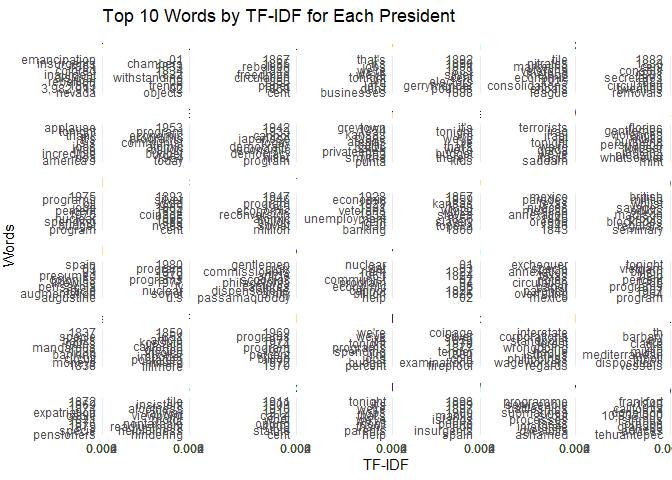
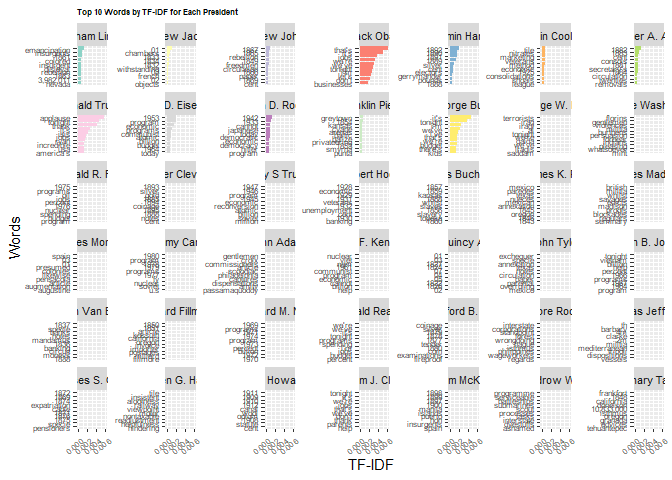
Complete Homework 7

diff --git a/hw07/hw07.md b/hw07/hw07.md
@@ -11,6 +11,7 @@ library(tidyverse)
 library(ggwordcloud)
 library(sotu)
 library(textstem)
+library(dplyr)
 ```
 
 ``` r
@@ -89,26 +90,13 @@ obama_n <- sotu %>%
   filter(president == "Barack Obama") %>%
   unnest_tokens(word, speech, to_lower = FALSE, strip_punct = FALSE) %>%
   count(word, sort = TRUE)
-
-head(obama_n)
 ```
-
-    ## # A tibble: 6 × 2
-    ##   word      n
-    ##   <chr> <int>
-    ## 1 .      2978
-    ## 2 ,      2866
-    ## 3 the    2282
-    ## 4 to     1815
-    ## 5 and    1473
-    ## 6 of     1311
 
 ``` r
 obama_n_cleaned <- obama_n %>%
   anti_join(stop_words, by = "word") %>%
   filter(n >= 10, nchar(word) >= 2) %>%
   slice_max(n, n = 200)
-
 head(obama_n)
 ```
 
@@ -141,23 +129,33 @@ sotu_corpus <- sotu %>%
   unnest_tokens(word, speech) %>%
   count(word, sort = TRUE)
 
-head(sotu_corpus)
+head(sotu_corpus, 10)
 ```
 
-    ## # A tibble: 6 × 2
-    ##   word       n
-    ##   <chr>  <int>
-    ## 1 the   165603
-    ## 2 of    106402
-    ## 3 and    68063
-    ## 4 to     68039
-    ## 5 in     43429
-    ## 6 a      31342
+    ## # A tibble: 10 × 2
+    ##    word       n
+    ##    <chr>  <int>
+    ##  1 the   165603
+    ##  2 of    106402
+    ##  3 and    68063
+    ##  4 to     68039
+    ##  5 in     43429
+    ##  6 a      31342
+    ##  7 that   24113
+    ##  8 for    21701
+    ##  9 be     20450
+    ## 10 our    19599
 
 ``` r
+# Remove stop words
+sotu_corpus <- sotu_corpus %>%
+  anti_join(stop_words, by = "word")
+
+# Top 10 most frequent words
 top_words <- sotu_corpus %>%
-  anti_join(stop_words, by = "word") %>%
   slice_max(n, n = 10)
+
+# Print the result
 print(top_words)
 ```
 
@@ -179,41 +177,46 @@ print(top_words)
 sotu_corpus <- sotu_corpus %>%
   mutate(lemmata = lemmatize_words(word))
 
-head(sotu_corpus)
+sotu_corpus
 ```
 
-    ## # A tibble: 6 × 3
-    ##   word       n lemmata
-    ##   <chr>  <int> <chr>  
-    ## 1 the   165603 the    
-    ## 2 of    106402 of     
-    ## 3 and    68063 and    
-    ## 4 to     68039 to     
-    ## 5 in     43429 in     
-    ## 6 a      31342 a
+    ## # A tibble: 29,875 × 3
+    ##    word           n lemmata   
+    ##    <chr>      <int> <chr>     
+    ##  1 government  7597 government
+    ##  2 congress    5808 congress  
+    ##  3 united      5156 unite     
+    ##  4 people      4298 people    
+    ##  5 country     3641 country   
+    ##  6 public      3419 public    
+    ##  7 time        3188 time      
+    ##  8 american    2988 american  
+    ##  9 war         2976 war       
+    ## 10 world       2633 world     
+    ## # ℹ 29,865 more rows
 
 ``` r
 sotu_top_words <- sotu_corpus %>%
   count(lemmata, sort = TRUE) %>%
-  slice_max(n, n = 100)
+  slice_head(n = 100)
 
 sotu_top_words
 ```
 
-    ## # A tibble: 1,093 × 2
+    ## # A tibble: 100 × 2
     ##    lemmata     n
     ##    <chr>   <int>
-    ##  1 be          9
-    ##  2 light       7
-    ##  3 base        6
-    ##  4 bear        6
-    ##  5 benefit     6
-    ##  6 close       6
-    ##  7 counsel     6
-    ##  8 focus       6
-    ##  9 free        6
-    ## 10 have        6
-    ## # ℹ 1,083 more rows
+    ##  1 light       7
+    ##  2 base        6
+    ##  3 bear        6
+    ##  4 benefit     6
+    ##  5 close       6
+    ##  6 counsel     6
+    ##  7 focus       6
+    ##  8 free        6
+    ##  9 marshal     6
+    ## 10 narrow      6
+    ## # ℹ 90 more rows
 
 ## Analyzing and visualizing texts
 
@@ -225,14 +228,11 @@ ggplot(sotu_top_words) +
   labs(title = "Word Cloud of All SOTU Speeches")
 ```
 
-    ## Warning in wordcloud_boxes(data_points = points_valid_first, boxes = boxes, :
-    ## Some words could not fit on page. They have been removed.
-
 ![](hw07_files/figure-gfm/word-cloud-1.png)<!-- -->
 
 ``` r
 sotu_top_25 <- sotu_top_words %>%
-  slice_max(n, n = 25)
+  slice_head(n = 25)
 
 ggplot(sotu_top_25, aes(x = reorder(lemmata, n), y = n)) +
   geom_col(fill = "steelblue") +
@@ -248,26 +248,7 @@ ggplot(sotu_top_25, aes(x = reorder(lemmata, n), y = n)) +
 ![](hw07_files/figure-gfm/bar-plot-top-words-1.png)<!-- -->
 
 ``` r
-# Create the bar plot with adjustments to avoid overlapping labels
-ggplot(sotu_top_25, aes(x = reorder(lemmata, n), y = n)) +
-  geom_col(fill = "steelblue") +
-  coord_flip() +
-  labs(
-    title = "Top 25 Words in SOTU Speeches",
-    x = "Words",
-    y = "Frequency"
-  ) +
-  theme_minimal() +
-  theme(
-    axis.text.y = element_text(angle = 45, hjust = 1, size = 10),  # Rotate and reduce text size
-    plot.margin = margin(1, 1, 1, 3, "cm")  # Increase left margin
-  ) +
-  scale_y_discrete(expand = expansion(mult = c(0.1, 0.1)))  # Adjust y-axis spacing
-```
-
-![](hw07_files/figure-gfm/test-1.png)<!-- -->
-
-``` r
+# Compute tf-idf values
 sotu_tfidf <- sotu %>%
   unnest_tokens(word, speech) %>%
   count(president, word, sort = TRUE) %>%
@@ -275,22 +256,35 @@ sotu_tfidf <- sotu %>%
 ```
 
 ``` r
+# Select top 10 tf-idf words per president
 top_tfidf <- sotu_tfidf %>%
   group_by(president) %>%
   slice_max(tf_idf, n = 10) %>%
   ungroup()
 
+# Plot top 10 tf-idf words for each president
 ggplot(top_tfidf, aes(x = reorder_within(word, tf_idf, president), y = tf_idf, fill = president)) +
-  geom_col(show.legend = FALSE) +
-  facet_wrap(~ president, scales = "free_y") +
-  coord_flip() +
-  scale_x_reordered() +
+  geom_col(show.legend = FALSE) +  
+  facet_wrap(~ president, scales = "free_y") +  
+  coord_flip() +  
+  scale_x_reordered() +  
+  scale_fill_brewer(palette = "Set3") +  
   labs(
     title = "Top 10 Words by TF-IDF for Each President",
     x = "Words",
     y = "TF-IDF"
-  ) +
-  theme_minimal()
+  )  +
+  theme(
+    strip.text = element_text(size =8),  
+    axis.text.y = element_text(size = 6), 
+    axis.text.x = element_text(size = 6, angle = 40, hjust = 1),  
+    plot.title = element_text(size = 6, face = "bold"),  
+    plot.subtitle = element_text(size = 6)  
+  )
 ```
 
 ![](hw07_files/figure-gfm/faceted-bar-plot-1.png)<!-- -->
+
+## References
+
+1.  <https://www.storybench.org/using-french-wine-reviews-understand-tf-idf-measure-unique-word-document/>
